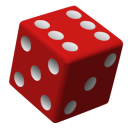
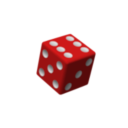
Updated README.md with text that accurately reflect how to use the mod. Updated the GremlinsDice.png files with the correct size of the image. Updated comments inside the code to more accurately reflect what certain lines of code were doing. Removed the modpanelbutton and replaced it with modpanelte

diff --git a/src/main/java/Pandatron76_StSMod/custom_relics/GremlinsDice.java b/src/main/java/Pandatron76_StSMod/custom_relics/GremlinsDice.java
@@ -21,8 +21,6 @@ import java.util.ArrayList;
 import java.util.Collections;
 import java.util.List;
 
-import static com.megacrit.cardcrawl.core.AbstractCreature.TEXT;
-
 public class GremlinsDice extends CustomRelic {
 
     public static final String ID = "GremlinsDice";
@@ -43,28 +41,47 @@ public class GremlinsDice extends CustomRelic {
         Random rand = new Random();
         int rolld6 = rand.nextInt(6) + 1;
 
+        // On a 1, increase the players max hp by 5 using the same visual cue as the red card 'Feed'
         if (rolld6 == 1) {
             if (p.currentHealth > 0) {
                 p.increaseMaxHp(MAX_HP_SHIFT, true);
             }
         }
+        // On a 2, decrease the players max hp by 5
         else if (rolld6 == 2) {
             if (p.currentHealth > 0) {
                 p.decreaseMaxHealth(MAX_HP_SHIFT);
                 AbstractDungeon.effectsQueue.add(
-                        new TextAboveCreatureEffect(this.hb.cX - 1, this.hb.cY, TEXT[2] +
-                                Integer.toString(2), Settings.RED_TEXT_COLOR));
+                        new TextAboveCreatureEffect(p.hb.cX - p.animX, p.hb.cY, "Max HP-" +
+                                Integer.toString(MAX_HP_SHIFT), Settings.RED_TEXT_COLOR));
+                p.healthBarUpdatedEvent();
             }
         }
+
+        //On a 3, provide the player with 15, gold
         else if (rolld6 == 3) {
-            p.gainGold(5);
+            p.gainGold(GOLD_SHIFT);
             AbstractDungeon.effectList.add(new RainingGoldEffect(GOLD_SHIFT));
+
+            // Provide a visual indication to let the player know they are gaining gold.
+            AbstractDungeon.effectsQueue.add(
+                    new TextAboveCreatureEffect(p.hb.cX - p.animX, p.hb.cY, "Gold+" +
+                            Integer.toString(GOLD_SHIFT), Settings.GREEN_TEXT_COLOR));
         }
+
+        //On a 4, take 15 gold away from the player
         else if (rolld6 == 4) {
             if (p.gold > 0) {
                 p.loseGold(GOLD_SHIFT);
+
+                // Provide a visual indication to let the player know they are gaining gold.
+                AbstractDungeon.effectsQueue.add(
+                        new TextAboveCreatureEffect(p.hb.cX - p.animX, p.hb.cY, "Gold-" +
+                                Integer.toString(GOLD_SHIFT), Settings.RED_TEXT_COLOR));
             }
         }
+
+        // On a 5 give the player a randomly upgraded card
         else if (rolld6 == 5) {
 
             ArrayList<AbstractCard> upgradableCards = new ArrayList();
@@ -83,23 +100,33 @@ public class GremlinsDice extends CustomRelic {
                     ((List)cardMetrics).add(((AbstractCard)upgradableCards.get(0)).cardID);
                     AbstractDungeon.player.bottledCardUpgradeCheck((AbstractCard)upgradableCards.get(0));
                     AbstractDungeon.effectList.add(
-                            new ShowCardBrieflyEffect(((AbstractCard)upgradableCards.get(0)).makeStatEquivalentCopy()));
+                            new ShowCardBrieflyEffect(
+                                    ((AbstractCard)upgradableCards.get(0)).makeStatEquivalentCopy()));
                 }
                 else
                 {
                     ((AbstractCard)upgradableCards.get(0)).upgrade();
                     ((List)cardMetrics).add(((AbstractCard)upgradableCards.get(0)).cardID);
                     AbstractDungeon.player.bottledCardUpgradeCheck((AbstractCard)upgradableCards.get(0));
-                    AbstractDungeon.effectList.add(new ShowCardBrieflyEffect(
 
-                            ((AbstractCard)upgradableCards.get(0)).makeStatEquivalentCopy(),
-                            Settings.WIDTH / 2.0F - 190.0F * Settings.scale, Settings.HEIGHT / 2.0F));
+                    // Position the upgrade card effect in the upper right hand corner of the screen
+                    AbstractDungeon.effectList.add(
+                            new ShowCardBrieflyEffect(
+                                    ((AbstractCard)upgradableCards.get(0)).makeStatEquivalentCopy(),
+                                    Settings.WIDTH / 2.0F + 650.0F * Settings.scale,
+                                    Settings.HEIGHT / 2.0F + 150.0F * Settings.scale));
                 }
             }
         }
+
+        // On a 6 (or any other condition) give the player a random curse
         else {
             AbstractCard curse = AbstractDungeon.returnRandomCurse();
-            AbstractDungeon.effectList.add(new ShowCardAndObtainEffect(curse, Settings.WIDTH / 2.0F, Settings.HEIGHT / 2.0F));
+
+            // Position the upgrade card effect in the upper left hand corner of the screen
+            AbstractDungeon.effectList.add(new ShowCardAndObtainEffect(curse,
+                    Settings.WIDTH / 2.0F + 650.0F * Settings.scale,
+                    Settings.HEIGHT / 2.0F + 150.0F * Settings.scale));
         }
     }
 

diff --git a/src/main/java/Pandatron76_StSMod/GremlinsDiceMod.java b/src/main/java/Pandatron76_StSMod/GremlinsDiceMod.java
@@ -1,7 +1,7 @@
 package Pandatron76_StSMod;
 
 import basemod.BaseMod;
-import basemod.ModLabeledToggleButton;
+import basemod.ModLabel;
 import basemod.ModPanel;
 import basemod.helpers.RelicType;
 import basemod.interfaces.EditRelicsSubscriber;
@@ -12,7 +12,6 @@ import com.badlogic.gdx.Gdx;
 import com.badlogic.gdx.graphics.Texture;
 import com.evacipated.cardcrawl.modthespire.lib.SpireInitializer;
 import com.megacrit.cardcrawl.core.Settings;
-import com.megacrit.cardcrawl.helpers.FontHelper;
 import com.megacrit.cardcrawl.localization.RelicStrings;
 
 import java.nio.charset.StandardCharsets;
@@ -32,8 +31,8 @@ public class GremlinsDiceMod implements
     public static final String AUTHOR = "Pandatron76";
     public static final String DESCRIPTION = "v1.0.0\n A dice covered in dried raspberry jam.";
 
-    public static final float BUTTON_ENABLE_X = 350.0f;
-    public static final float BUTTON_ENABLE_Y = 750.0f;
+    public static final float TBD_LABEL_X = 350.0f;
+    public static final float TBD_LABEL_Y = 750.0f;
 
     public static final String ASSETS_FOLDER = "img";
     public static final String BADGE_IMG = "/badges/GremlinsDiceBadge.png";
@@ -61,29 +60,25 @@ public class GremlinsDiceMod implements
         String relicStrings = Gdx.files.internal("localization/Custom-RelicStrings.json").readString(
                 String.valueOf(StandardCharsets.UTF_8));
         BaseMod.loadCustomStrings(RelicStrings.class, relicStrings);
-
     }
+
 
     @Override
     public void receivePostInitialize() {
 
         Texture badgeTexture = new Texture(makePath(BADGE_IMG));
         ModPanel settingsPanel = new ModPanel();
+        ModLabel TBD_Label = new ModLabel("Nothing here at this time. Enjoy the mod :)",
+                TBD_LABEL_X,
+                TBD_LABEL_Y,
+                settingsPanel, me -> {});
 
-        ModLabeledToggleButton enableSTSMod_ConfirmPopup = new ModLabeledToggleButton(
-                "Present the user with a confirmation prompt before resting",
-                BUTTON_ENABLE_X, BUTTON_ENABLE_Y, Settings.CREAM_COLOR, FontHelper.charDescFont,
-                RestConfirmPopupFlag, settingsPanel, (label) -> {}, (button) -> {
-            setBoolean(button.enabled);
-        });
-
-        settingsPanel.addUIElement(enableSTSMod_ConfirmPopup);
+        settingsPanel.addUIElement(TBD_Label);
         BaseMod.registerModBadge(badgeTexture, MODNAME, AUTHOR, DESCRIPTION , settingsPanel);
 
         Settings.isDailyRun = false;
         Settings.isTrial = false;
         Settings.isDemo = false;
-
     }
 
     /**
@@ -104,11 +99,5 @@ public class GremlinsDiceMod implements
     private static boolean hasExtension(String filename) {
         return filename.lastIndexOf('.') > 0;
     }
-
-    private void setBoolean(Boolean bool){
-        RestConfirmPopupFlag = bool;
-    }
-
-
 
 }

diff --git a/src/main/java/Pandatron76_StSMod/patches/getDefectStartingRelicsPatch.java b/src/main/java/Pandatron76_StSMod/patches/getDefectStartingRelicsPatch.java
@@ -12,16 +12,16 @@ import java.util.ArrayList;
 public class getDefectStartingRelicsPatch {
 
     public static ArrayList<String> Postfix(ArrayList<String> __result, Defect __instance) {
-        //Clear out the original relics
+        // Clear out the original relics
         __result.clear();
-        //Add the custom relic 'Golden Marble' to the starting relics
+        // Add the custom relic 'Gremlin's Dice' to the starting relics
         __result.add(GremlinsDice.ID);
-        //Remove the 'Golden Marble' from the relic tracker
+        // Remove the 'Gremlin's DIce' from the relic tracker
         UnlockTracker.markRelicAsSeen(GremlinsDice.ID);
 
-        //Remove the 'Cracked Core' from the relic tracker
+        // Remove the 'Cracked Core' from the relic tracker
         UnlockTracker.markRelicAsSeen("Cracked Core");
-        //Return the relics that Ironclad will start with
+        // Return the relics that Ironclad will start with
         return __result;
     }
 }

diff --git a/src/main/java/Pandatron76_StSMod/patches/getTheSilentStartingRelicsPatch.java b/src/main/java/Pandatron76_StSMod/patches/getTheSilentStartingRelicsPatch.java
@@ -12,11 +12,11 @@ import java.util.ArrayList;
 public class getTheSilentStartingRelicsPatch {
 
     public static ArrayList<String> Postfix(ArrayList<String> __result, TheSilent __instance) {
-        //Clear out the original relics
+        // Clear out the original relics
         __result.clear();
-        //Add the custom relic 'Golden Marble' to the starting relics
+        // Add the custom relic 'Gremlin's Dice' to the starting relics
         __result.add(GremlinsDice.ID);
-        //Remove the 'Golden Marble' from the relic tracker
+        // Remove the 'Gremlin's DIce' from the relic tracker
         UnlockTracker.markRelicAsSeen(GremlinsDice.ID);
 
         //Remove the 'Ring of the Snake' from the relic tracker

diff --git a/src/main/java/Pandatron76_StSMod/patches/getIroncladStartingRelicPatch.java b/src/main/java/Pandatron76_StSMod/patches/getIroncladStartingRelicPatch.java
@@ -12,11 +12,11 @@ import java.util.ArrayList;
 public class getIroncladStartingRelicPatch {
 
     public static ArrayList<String> Postfix(ArrayList<String> __result, Ironclad __instance) {
-        //Clear out the original relics
+        // Clear out the original relics
         __result.clear();
-        //Add the custom relic 'Golden Marble' to the starting relics
+        // Add the custom relic 'Gremlin's Dice' to the starting relics
         __result.add(GremlinsDice.ID);
-        //Remove the 'Golden Marble' from the relic tracker
+        // Remove the 'Gremlin's DIce' from the relic tracker
         UnlockTracker.markRelicAsSeen(GremlinsDice.ID);
 
         //Remove the 'Burning Blood' from the relic tracker

diff --git a/README.md b/README.md
@@ -1,2 +1,36 @@
-"# StsMod_GremlinsDice" 
-"# StsMod_GremlinsDice" 
+## Introductions
+A relic mod I wrote for a friend that enjoys randomness in video games. The player's starting relic is replaced with
+the Gremlin's Dice which at the end of each combat provides the player with a benefit or drawl back.
+
+This was sort of an after thought to the mod I wrote before this
+https://github.com/Pandatron76/StsMod_Clawfect
+
+At the end of each combat a die is cast.
+
+On a 1, the player gains 5 max hp.  
+On a 2, the player loses 5 max hp.  
+On a 3, the player gains 15 gold.  
+On a 4, the player loses 15 gold.  
+On a 5, the player upgrades a random card in their deck.  
+Last but not least on a 6, the player obtains a curse.
+
+## Getting Started
+1. Make sure to have the latest version of...  
+&nbsp;ModTheSpire (https://github.com/kiooeht/ModTheSpire/releases)  
+&nbsp;BaseMod (https://github.com/daviscook477/BaseMod/releases)
+2. Navigate to: https://github.com/Pandatron76/StsMod_GremlinsDice/releases and download the latest release
+3. Follow the steps as detailed by kiooeht in his 'README.md' file here: https://github.com/kiooeht/ModTheSpire
+
+## Contributing
+1. Fork the project
+2. Create a new feature brach on the fork project
+3. Commit changes
+4. Push the changes to the branch.
+5. Create a new Pull Request back to the main project
+
+## Acknowledgements
+
+Thanks to the individuals that have worked on ModTheSpire and BaseMod.
+
+Thanks to my friends for being willing guinea pigs in testing this :). 
+
